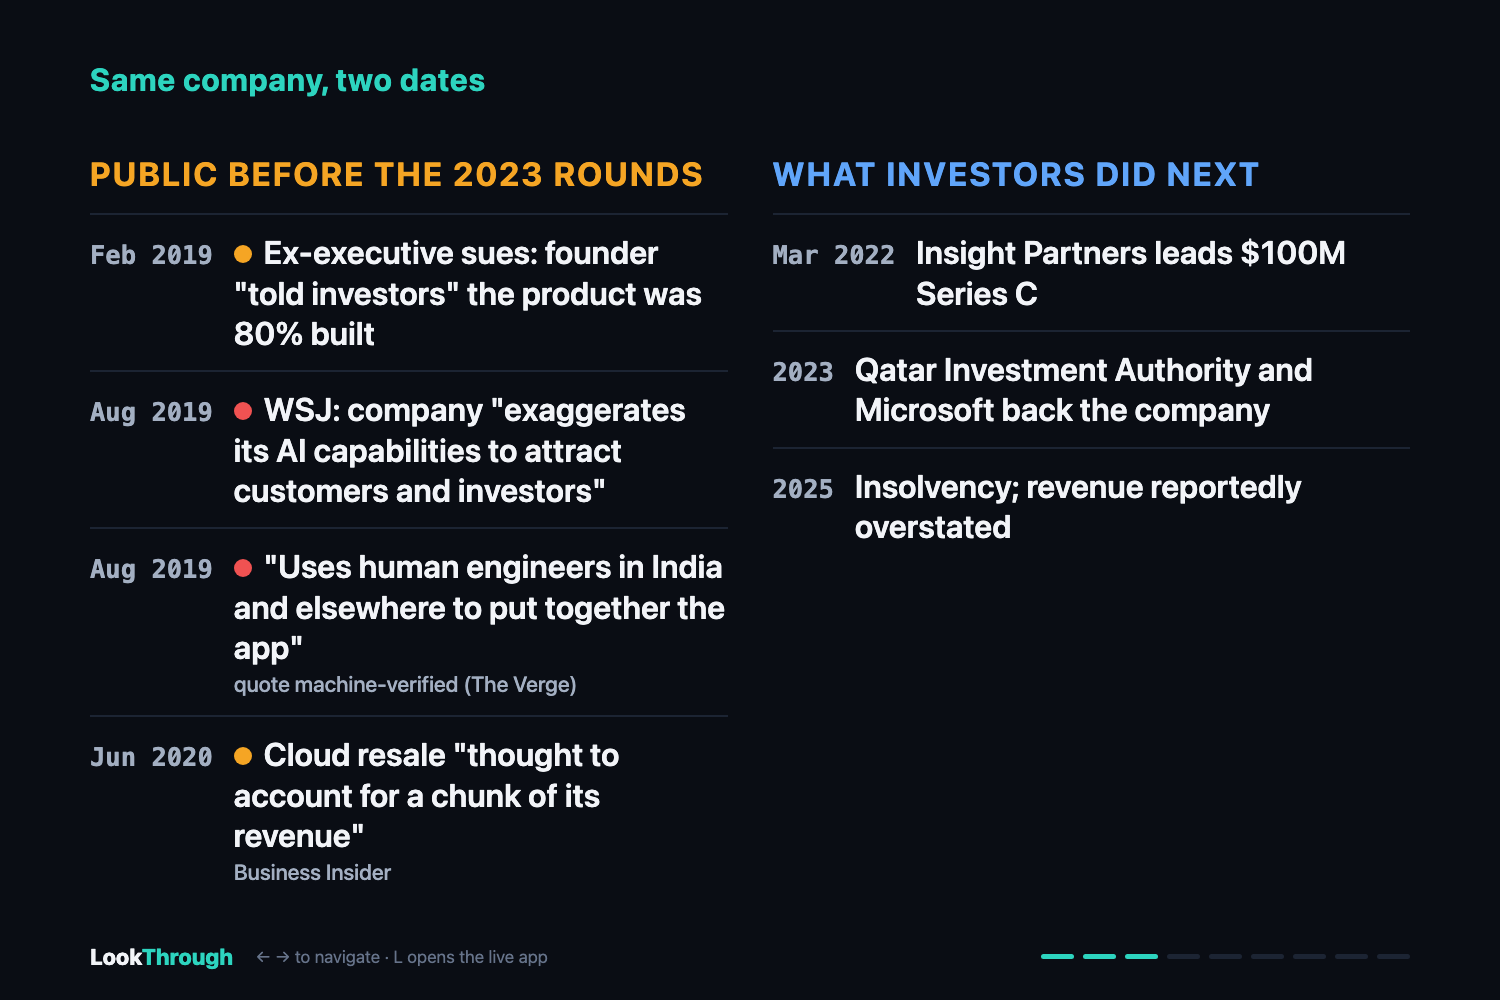
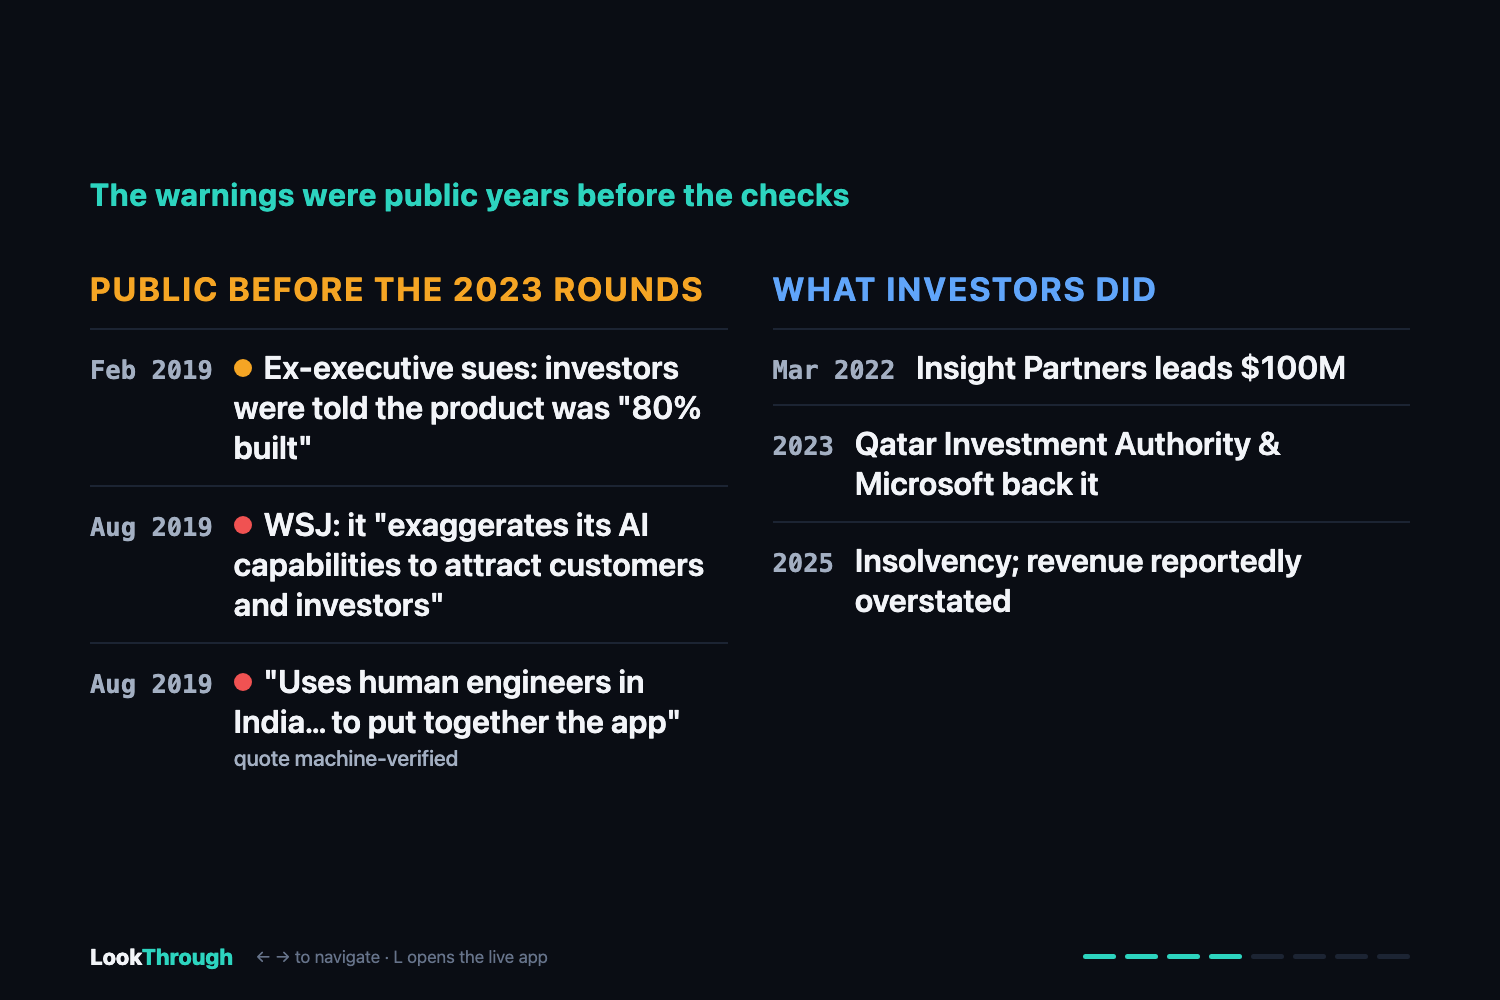
Dashcam-for-due-diligence story: who, why, how

diff --git a/web/story.html b/web/story.html
@@ -49,85 +49,74 @@ h1 .r{color:var(--red)}
 <body>
 
 <section class="slide">
-  <div class="kicker">LookThrough · time-travel search</div>
-  <h1>AI search knows what's true <em>now</em>.<br>Decisions are judged on what was knowable <em>then</em>.</h1>
-  <div class="sub">Every deal, audit, claim, lawsuit and AI backtest asks the same question. LookThrough answers it, with proof.</div>
+  <div class="kicker">LookThrough · a dashcam for due diligence</div>
+  <h1>When a deal blows up,<br>everyone asks one question:</h1>
+  <h1 style="margin-top:3vh"><em>"What did you know, and when?"</em></h1>
+  <div class="sub">The board. Your investors. The regulator. The lawyers. The insurer.</div>
 </section>
 
 <section class="slide">
-  <div class="kicker">The case every AI investor discussed</div>
-  <h1><em>Builder.ai</em>: the "AI" app-builder<br>backed by Microsoft &amp; SoftBank.</h1>
-  <div class="sub">Big rounds through 2022–2023. Insolvency in 2025, amid reports its revenue was overstated.<br><b style="color:var(--text)">Were the red flags public before investors wrote the checks?</b></div>
+  <div class="kicker">Who has to answer it</div>
+  <h1>Anyone who signs off on risk.</h1>
+  <div class="big3" style="grid-template-columns:repeat(4,1fr)">
+    <div class="stat"><b>15,352</b><span>Investors</span><small>US venture deals in 2025 alone, $320B; plus PE and M&amp;A</small></div>
+    <div class="stat"><b>$206B</b><span>Banks &amp; fintechs</span><small>spent every year checking who they do business with; 57% is people</small></div>
+    <div class="stat"><b>Every</b><span>Insurer, auditor, lawyer</span><small>claims, audits and lawsuits all turn on "what was known at the time"</small></div>
+    <div class="stat"><b>Every</b><span>AI agent</span><small>that recommends a trade, a loan or a deal will be asked the same question</small></div>
+  </div>
 </section>
 
 <section class="slide">
-  <div class="kicker">Same company, two dates</div>
+  <div class="kicker">A story every investor here knows</div>
+  <h1><em>Builder.ai</em> raised from Microsoft and SoftBank.<br>It collapsed in 2025.</h1>
+  <div class="sub">The first question to its investors: <b style="color:var(--text)">"Didn't you see the warnings?"</b></div>
+</section>
+
+<section class="slide">
+  <div class="kicker">The warnings were public years before the checks</div>
   <div class="cols">
     <div class="col before">
       <h2>Public before the 2023 rounds</h2>
-      <div class="it"><span class="d">Feb 2019</span><span class="t"><i class="dot" style="background:var(--amber)"></i>Ex-executive sues: founder "told investors" the product was 80% built</span></div>
-      <div class="it"><span class="d">Aug 2019</span><span class="t"><i class="dot" style="background:var(--red)"></i>WSJ: company "exaggerates its AI capabilities to attract customers and investors"</span></div>
-      <div class="it"><span class="d">Aug 2019</span><span class="t"><i class="dot" style="background:var(--red)"></i>"Uses human engineers in India and elsewhere to put together the app"<small>quote machine-verified (The Verge)</small></span></div>
-      <div class="it"><span class="d">Jun 2020</span><span class="t"><i class="dot" style="background:var(--amber)"></i>Cloud resale "thought to account for a chunk of its revenue"<small>Business Insider</small></span></div>
+      <div class="it"><span class="d">Feb 2019</span><span class="t"><i class="dot" style="background:var(--amber)"></i>Ex-executive sues: investors were told the product was "80% built"</span></div>
+      <div class="it"><span class="d">Aug 2019</span><span class="t"><i class="dot" style="background:var(--red)"></i>WSJ: it "exaggerates its AI capabilities to attract customers and investors"</span></div>
+      <div class="it"><span class="d">Aug 2019</span><span class="t"><i class="dot" style="background:var(--red)"></i>"Uses human engineers in India… to put together the app"<small>quote machine-verified</small></span></div>
     </div>
     <div class="col after">
-      <h2>What investors did next</h2>
-      <div class="it"><span class="d">Mar 2022</span><span class="t">Insight Partners leads $100M Series C</span></div>
-      <div class="it"><span class="d">2023</span><span class="t">Qatar Investment Authority and Microsoft back the company</span></div>
+      <h2>What investors did</h2>
+      <div class="it"><span class="d">Mar 2022</span><span class="t">Insight Partners leads $100M</span></div>
+      <div class="it"><span class="d">2023</span><span class="t">Qatar Investment Authority &amp; Microsoft back it</span></div>
       <div class="it"><span class="d">2025</span><span class="t">Insolvency; revenue reportedly overstated</span></div>
     </div>
   </div>
 </section>
 
 <section class="slide">
-  <div class="kicker">The point</div>
-  <h1>The risk was <em>public</em>.<br>The deal went ahead anyway.</h1>
-  <div class="sub">Back office surfaces risk. Front office makes the call.<br>LookThrough gives both a <b style="color:var(--text)">defensible record of what was knowable</b>, as of the day they signed.</div>
+  <div class="kicker">Why it's so hard to answer today</div>
+  <h1>Proving what you knew takes<br><em>weeks</em> of analysts and lawyers.</h1>
+  <div class="sub" style="font-size:2.6vw">And AI makes it worse. Ask it about 2023 and it answers with <b style="color:var(--red)">2025</b>.</div>
+  <div class="quote">Plain AI search, asked what was known in May 2023: "the later stories about faked revenue and the <mark>2025 insolvency</mark>…" and "this comes from <mark>my own recall</mark>."</div>
 </section>
 
 <section class="slide">
-  <div class="kicker">"Can't ChatGPT or Claude just do this?"</div>
-  <h1>Smart AI search <span class="r">knows the ending.</span></h1>
-  <div class="quote">Asked about May 2023, plain Claude search answered with "the later stories about faked revenue and the <mark>2025 insolvency</mark>", and admitted one point came from "<mark>my own recall</mark>".</div>
-  <div class="vs">
-    <div class="h">Same question</div><div class="h">Plain AI search</div><div class="h">LookThrough</div>
-    <div>Hindsight leaks</div><div class="bad">3</div><div class="good">0</div>
-    <div>Quotes checked against source</div><div class="bad">0</div><div class="good">✓ archived page</div>
-    <div>Answers from memory</div><div class="bad">yes</div><div class="good">never</div>
-  </div>
-</section>
-
-<section class="slide">
-  <div class="kicker">How it works: three search primitives</div>
+  <div class="kicker">LookThrough</div>
+  <h1>Type a company. Pick a date.<br>Get the <em>proof</em> in 90 seconds.</h1>
   <div class="big3">
-    <div class="stat"><b>151</b><span>Time-bounded</span><small>later sources blocked across our runs: date filter, then archived snapshots, then a content scan for wrong dates</small></div>
-    <div class="stat"><b>97%</b><span>Verified</span><small>of 493 extracted claims matched their source page word for word. The model proposes; code verifies</small></div>
-    <div class="stat"><b>161</b><span>Connected</span><small>entities mapped across 19 investigations, via 10 engines &amp; platforms</small></div>
+    <div class="stat"><b>Then</b><span>Only what was public on that date</span><small>later news can't leak in. 151 later sources blocked in our tests</small></div>
+    <div class="stat"><b>Proof</b><span>Every claim has a quote and a source</span><small>checked word for word against the page: 97% of 493 claims</small></div>
+    <div class="stat"><b>Who</b><span>Every connection mapped</span><small>investors, owners and subsidiaries, found live: 161 entities</small></div>
   </div>
 </section>
 
 <section class="slide">
   <div class="kicker">Powered by Telem</div>
-  <h1>The best single search engine<br>found only <em>64%</em> of the evidence.</h1>
-  <div class="sub">Across 19 investigations, Telem routed each question to the right engines and found the other 36%.<br><code style="color:var(--accent)">published_before</code> makes time travel possible. One Telem session per investigation is the audit trail.</div>
-</section>
-
-<section class="slide">
-  <div class="kicker">The market: every decision that must hold up later</div>
-  <h1>Any AI that decides needs to know<br>what was <em>knowable</em>, and prove it.</h1>
-  <div class="big3" style="grid-template-columns:repeat(4,1fr)">
-    <div class="stat"><b>$206B</b><span>Financial-crime compliance</span><small>yearly spend by banks &amp; fintechs on KYC/AML; 57% is human labor</small></div>
-    <div class="stat"><b>15,352</b><span>Investment &amp; M&amp;A diligence</span><small>US VC deals in 2025 alone, $320B; plus PE and corporate M&amp;A</small></div>
-    <div class="stat"><b>Every</b><span>AI agent that backtests</span><small>trading, forecasting and research agents leak the future; research shows date filters alone fail</small></div>
-    <div class="stat"><b>&amp;</b><span>Legal &amp; insurance</span><small>"what did they know, and when?" is the core question in litigation and claims</small></div>
-  </div>
-  <div class="sub" style="font-size:1.9vw;margin-top:4vh">Wedge: investor due diligence, where every check must be defensible later. Platform: an API / MCP tool for any agent.</div>
+  <h1>No single search engine sees it all.<br>The best one found only <em>64%</em>.</h1>
+  <div class="sub">Telem routes every question to the right engines, adds WeChat and LinkedIn, and lets us search the web <b style="color:var(--text)">as it was on any date</b>. One Telem session per investigation is the audit trail.</div>
 </section>
 
 <section class="slide">
   <div class="kicker">Try it</div>
-  <h1>Name a company.<br>We'll show what was <em>knowable</em>.</h1>
-  <div class="qr"><img src="/media/qr-demo.png" alt="QR code to the live demo"><div><div class="url" id="url"></div><div class="sub" style="font-size:1.8vw">Investigation · Hindsight test · Who it's for<br>Built on Telem · github.com/DebLeong/lookthrough</div></div></div>
+  <h1>Name a company. Pick a date.<br>See what you <em>could have known</em>.</h1>
+  <div class="qr"><img src="/media/qr-demo.png" alt="QR code to the live demo"><div><div class="url" id="url"></div><div class="sub" style="font-size:1.8vw">A dashcam for due diligence. Built on Telem.<br>github.com/DebLeong/lookthrough</div></div></div>
 </section>
 
 <div class="foot"><span class="logo">Look<span>Through</span></span><span>← → to navigate · L opens the live app</span><span class="prog" id="prog"></span></div>

diff --git a/web/index.html b/web/index.html
@@ -126,7 +126,7 @@ nav.chap a:hover{color:var(--text)}
 <body>
 <header>
   <div class="logo">Look<span>Through</span></div>
-  <div class="tagline">Time-travel search</div>
+  <div class="tagline">A dashcam for due diligence</div>
   <nav class="chap"><a href="/story">Story</a><a class="on" href="/">Investigation</a><a href="/compare">Hindsight test</a><a href="/pitch">Who it's for</a></nav>
   <div class="spacer"></div>
   <div class="switch" id="viewSwitch" style="display:none"></div>

diff --git a/VIDEO.md b/VIDEO.md
@@ -1,34 +1,41 @@
 # 2-minute demo video: record it now
 
-## Setup (2 min)
-1. In Chrome, open these 3 tabs **in this order** (Cmd+Shift+R each to force-reload):
+## Setup
+1. Chrome, 3 tabs (Cmd+Shift+R each):
    - Tab 1: http://localhost:8077/story
-   - Tab 2: http://localhost:8077/  (then type **Builder.ai** and click **Run**: it replays from cache in about 2 s)
+   - Tab 2: http://localhost:8077/  (type **Builder.ai**, click **Run**: replays in about 3 s)
    - Tab 3: http://localhost:8077/compare
-2. Hide the bookmarks bar (Cmd+Shift+B), go full screen, mute notifications.
-3. Press **Cmd+Shift+5** → Record Entire Screen → Options → Microphone: MacBook Microphone → Record.
-4. Stop with ⏹ in the menu bar → trim in QuickTime → upload to YouTube as **Unlisted**.
+2. Full screen, notifications muted. **Cmd+Shift+5** → Record Entire Screen → Options → Microphone: MacBook Microphone → Record.
+3. Stop with ⏹ → trim in QuickTime → upload to YouTube as **Unlisted**.
 
-## Script (~2:00)
+## Script (~2:00; talk like you're telling a story)
 
-**[Tab 1, slide 1] 0:00**
-"LookThrough is time-travel search, built on Telem. AI search knows what's true *now*, but every deal, audit, claim, lawsuit and AI backtest is judged on what was knowable *then*. LookThrough answers that, with proof."
+**Slide 1 · 0:00**
+"When a deal blows up, everyone asks one question: what did you know, and when? The board, your investors, the regulator, the lawyers. LookThrough is a dashcam for due diligence."
 
-**[→ slide 2] 0:12**
-"Take Builder.ai, the AI app-builder backed by Microsoft and SoftBank. It raised big rounds, then collapsed in 2025 amid reports its revenue was overstated. Were the red flags public before investors wrote the checks?"
+**Slide 2 · 0:12**
+"Everyone who signs off on risk has to answer it: investors doing 15,000 deals a year, banks spending $206 billion a year checking who they do business with, insurers, auditors, and soon every AI agent that recommends a deal."
 
-**[→ slide 3] 0:25**
-"LookThrough rebuilt what was public before the 2023 rounds. In 2019, a former executive sued. The Wall Street Journal reported the company 'exaggerates its AI capabilities.' The Verge reported humans in India were building the apps; we machine-verified that quote. On the right: what investors did next anyway."
+**Slide 3 · 0:25**
+"Take Builder.ai: backed by Microsoft and SoftBank, collapsed in 2025. First question to the investors: didn't you see the warnings?"
 
-**[Tab 2: investigation] 0:45**
-"Here's the investigation. From one name, the agent maps the company and its investors live from the web, across many engines routed by Telem. Every claim carries a verbatim quote checked against the source page."
-*(Click a flagged investor, then drag the timeline slider left.)* "The timeline shows what was public on any date."
+**Slide 4 · 0:35**
+"The warnings were public years before. A 2019 lawsuit. The Wall Street Journal said it exaggerated its AI. Reports that humans in India built the apps. Investors kept writing checks."
 
-**[Tab 3: hindsight test] 1:10**
-"Can't plain AI search do this? We asked plain Claude search the same question. It brought up the 2025 insolvency, cited a bankruptcy article, and admitted it used its own memory. Smart AI search knows the ending. In a lookback, that's wrong."
+**Slide 5 · 0:50**
+"Proving what you knew today takes weeks of analysts and lawyers. And AI makes it worse: ask it about 2023 and it answers with 2025."
 
-**[Tab 1 → slide 6, then 7] 1:30**
-"Three primitives: time-bounded, with 151 later sources blocked; verified, with 97% of claims quote-matched; connected, with 161 entities mapped. Telem makes it work: the best single engine found only 64% of our evidence, Telem's routing found the rest, and its published-before filter makes time travel possible."
+**Tab 3 · 1:00**
+"Here's that side by side. Plain AI search brought up the insolvency and admitted it used its own memory. LookThrough only used what was public then, and verified every quote."
 
-**[→ slide 8, then 9] 1:45**
-"The market is every decision that has to hold up later: $206 billion a year in financial-crime compliance, every investment and M&A deal, every AI agent that backtests. We start with investor due diligence and ship as an API and MCP tool for any agent. LookThrough: what was knowable, when, and how we know."
+**Slide 6 · 1:15**
+"LookThrough: type a company, pick a date, get the proof in 90 seconds. Only what was public then. Every claim with a quote and a source. Every connection mapped."
+
+**Tab 2 · 1:30** *(graph already loaded; click a flagged node)*
+"Here's Builder.ai mapped live: investors, owners, every claim quote-checked."
+
+**Slide 7 · 1:42**
+"Telem makes it possible: no single search engine sees it all, and the best one found only 64%. Telem routes every question and lets us search the web as it was on any date."
+
+**Slide 8 · 1:52**
+"Name a company, pick a date, and see what you could have known. LookThrough, built on Telem."

diff --git a/SUBMISSION.md b/SUBMISSION.md
@@ -1,10 +1,10 @@
 # Devpost submission: copy and paste
 
 ## Project name (60 max)
-LookThrough: Time-Travel Search for AI Agents
+LookThrough: A Dashcam for Due Diligence
 
 ## Elevator pitch (200 max)
-AI search answers what's true now. LookThrough answers what was knowable then: time-bounded, quote-verified search building a knowledge graph across engines, languages and archives. Built on Telem.
+When a deal blows up, everyone asks: what did you know, and when? LookThrough rebuilds what was public on any date, every claim quote-verified, in 90 seconds. Built on Telem.
 
 ## Built with (tags)
 telem-ai, mcp, claude-code, tavily, exa, perplexity, linkup, you.com, claude, python, fastapi, javascript, cytoscape.js, server-sent-events, opensanctions, internet-archive, wechat, linkedin, rapidfuzz, cloudflare
@@ -14,6 +14,7 @@ telem-ai, mcp, claude-code, tavily, exa, perplexity, linkup, you.com, claude, py
 - Code: https://github.com/DebLeong/lookthrough
 
 ## Image gallery (upload in this order)
+0. media/0-story-hook.png: "What did you know, and when?"
 1. media/6-story-case.png: what was public vs. what investors did (Builder.ai)
 2. media/5-hindsight-test.png: plain AI search vs LookThrough, same question
 3. media/1-live-graph.png: the investigation graph
@@ -28,6 +29,8 @@ telem-ai, mcp, claude-code, tavily, exa, perplexity, linkup, you.com, claude, py
 ## About the project (paste everything below)
 
 ## Inspiration
+**When a deal blows up, everyone asks one question: "What did you know, and when?"** The board, the investors, the regulator, the lawyers and the insurer all ask it. Today, answering takes weeks of analysts and lawyers, and AI makes it worse, because it answers with hindsight. LookThrough is a **dashcam for due diligence**: a time-stamped, cited record of what was knowable when you made the call.
+
 AI search is built to answer one question: **what's true now?** Every serious decision asks two harder ones: **what was knowable at the time, and how do we know?**
 
 Today's AI search can't answer them:
